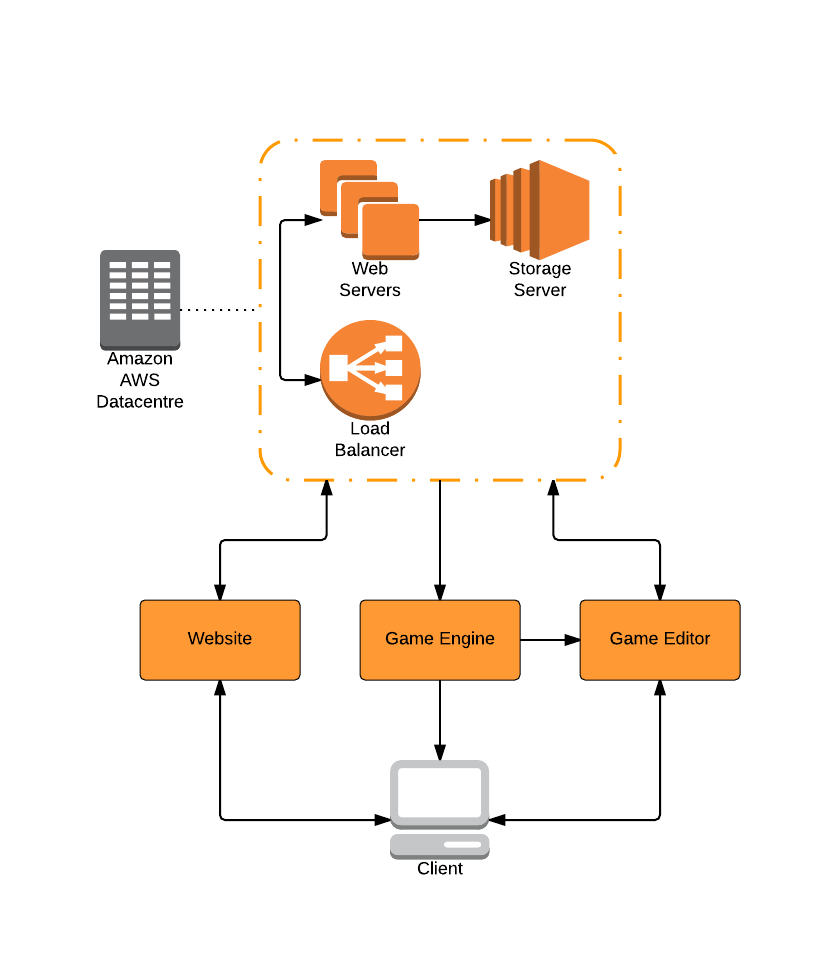
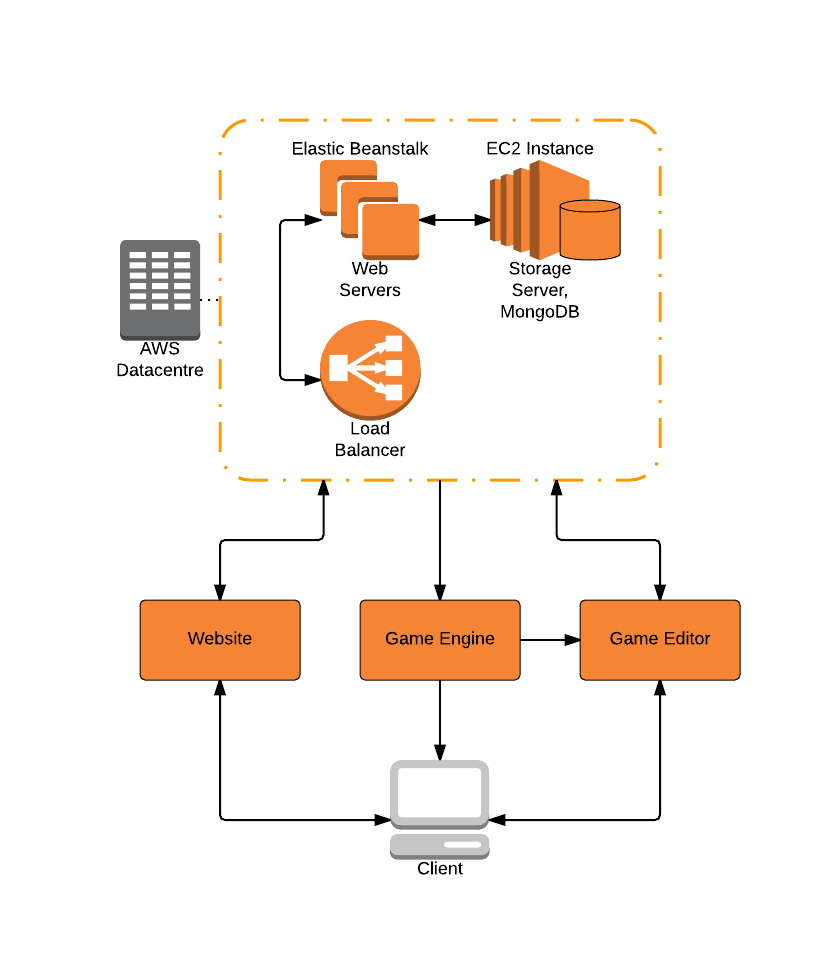
Added listings and color, along with some code display settings for listings from the LaTeX wiki Changed some of Design, lots of architecture

diff --git a/Dissertation/chapters/4_architecture.tex b/Dissertation/chapters/4_architecture.tex
@@ -2,23 +2,25 @@
 This chapter will go into detail of the development stages of this project, discussing the various decisions, challenges and problems faced during the development of each individual component in the system, and how they were resolved.
 
 \section{System Overview}
-The system is separated into two separate projects, \emph{the web server} which contains the game engine and editor, and \emph{the storage server}. These are both web based applications which host a HTTP server through the Python-based Flask microframework. The overview of the system is shown in Figure \ref, which labels the key components of the system in red.
-% Overview of sys arch, diagram to rep the key elements
-% Two main separate projects:
-% WebServer ---- StorageServer
-%	v
-% Website
-% Editor
-% Engine
+The system is separated into two individual development projects, \emph{the web server} which contains the website, game engine and editor, and \emph{the storage server}. These are both web based applications which host a HTTP server through the Python-based Flask microframework. An overview of the system is shown in Figure \ref{fig:overallarchitecture}, which labels the key components of the system in red.
 
+\begin{figure}[h]
+	\centering
+	\includegraphics[scale=0.8]{overallarchitecture}
+	\caption{Key components in the system}
+	\label{fig:overallarchitecture}
+\end{figure}
+
+\paragraph{Architectural Patterns.}
 The majority of the system follows the MVC (Model-View-Controller) software architectural pattern where possible. This pattern simplifies the development of complex systems by separating the data, display and logic sections into more managable subsystems - the model, view and controller respectively. The structure and architectural pattern of each individual component in this system will be described in-depth in Section \ref{section:systemcomponents}.
 
 % ref MVC, simplifies
 
 \section{Development Environment}
-The environment used throughout development of the system consisted of the Sublime Text 3 editor running on the Fedora 19 operating system. For each individual Flask project (The web server and storage server) a virtual environment was set up using \textbf{virtualenv}. Use of virtualenv allowed Python 3.4.2 (separate to the version on Fedora 19) and the required Python libraries to be installed individually for each project.
+The environment used throughout development of the project consisted of the Sublime Text 3 editor running on the Fedora 19 operating system. For each individual Flask project (The web server and storage server) a virtual environment was set up using \textbf{virtualenv}. Use of virtualenv allowed Python 3.4.2 (separate to the version on Fedora 19) and the required Python libraries to be installed individually for each project.
 
-For both projects, Flask and it's dependencies (itsdangerous, Jinja2, MarkupSafe and Werkzeug) were installed using \textbf{pip} in the virtualenv, along with the libraries specific to each project:
+For both projects, Flask and it's dependencies (itsdangerous, Jinja2, MarkupSafe and Werkzeug) were installed using \textbf{pip} in the virtualenv, along with the libraries specific to each project as seen below:
+
 \begin{itemize}
 	\item Web server:
 	\begin{itemize}
@@ -31,9 +33,9 @@ For both projects, Flask and it's dependencies (itsdangerous, Jinja2, MarkupSafe
 	\end{itemize}
 \end{itemize}
 
-The Git version control system was used to manage the project in this environment, with the project repository being hosted on GitHub as an external backup source. Originally, the two projects were in the same Git repository, however this proved to be unsuitable as rolling back changes on one project could be troublesome. The two projects were split into their own Git repositories using the \textbf{git subtree split} command, which maintained all commit history relevant to each project.
-
 The tools required to manage the Amazon Web Services were also installed in this environment, including the AWS CLI (Command Line Interface), and the Elastic Beanstalk CLI. These tools allow remote management of all AWS resources and quick deployment of applications to the Elastic Beanstalk platform.
+
+The Git version control system was used to manage the project in this environment, with the project repository being hosted on GitHub as an external backup source. Originally, the two projects were in the same Git repository, however this proved to be unsuitable as rolling back changes on one project would be troublesome. The two projects were split into their own Git repositories using the \textbf{git subtree split} command, which maintained all commit history relevant to each project.
 
 \section{System Components}
 \label{section:systemcomponents}
@@ -50,13 +52,57 @@ The tools required to manage the Amazon Web Services were also installed in this
 		\label{fig:flaskprocess}
 	\end{figure}
 
-	\paragraph{Internal Workings} % title
+	\paragraph{GitHub Authorisation.}
+
+
+	\paragraph{Templates.}
+	HTML templates are used to render the pages the server sends to the client. These are created using the Jinja2 templating language which is similar to embedding Python in HTML. Jinja2 has the feature of allowing templates to \emph{extend} or \emph{include} other templates, this means that they can be built upon eachother so very little HTML is repeated throughout the files. 
+
+	The template structure used for this website is built by extending a `base' template, which makes the creation of a consistently designed website easy. The base template creates the `html', `head' and `body' tags, links the stylesheets, adds a footer, then includes the `nav' template which has the top bar containing links to all of pages on the website. The rest of the body of the base template is defined as an empty `block'; which can be redefined by a template extending the base (Seen below).
+	\lstset{language=HTML,frame=single}
+	\begin{lstlisting}
+{% block content %}{% endblock %}
+	\end{lstlisting}
+
+	The nav template uses conditionals in Jinja2 to programmatically change how the navigation bar is displayed to the user; it does this by accessing the session variable on the server to check if the user has logged in. When a user is logged in, they are shown the link to the dashboard, along with their avatar, name and a `log out' button. If a user isn't logged in then the `log in' button is shown. This can be seen below:
+
+	\begin{lstlisting}
+{% if 'access_token' in session %}
+	<div class="userbox">
+	<img src="{{session['user_info']['avatar_url']}}&amp;s=30" alt="">
+	{{ session['user_info']['name'] }} 
+	<a href="/logout">logout</a>
+	</div>
+{% else %}
+	<form 
+		action="https://github.com/login/oauth/authorize" method="get">
+		<button type="submit" class="btn btn-default">
+			Log in with GitHub
+		</button>
+		<input type="hidden" name="scope" value="{{config.GITHUB_SCOPES}}"/>
+		<input type="hidden" name="client_id" value="{{config.GITHUB_CLIENT_ID}}"/>
+	</form>
+{% endif %}
+	\end{lstlisting}
+
+	\subsubsection{Routes}
+	The development of this component of the system consisted of developing each URL that users could access on the website. These took the form as routes in the Flask application, designated with a URL containing variables (Denoted with <>), along with HTML templates that get rendered with data from the server (However not every route has a template).
+	% todo
+	% A paragraph for each route.
+
+	\paragraph{/}
+	\paragraph{/games}
+	\paragraph{/game/<user>/<repo>}
+	\paragraph{/login}
+	\paragraph{/logout}
+	\paragraph{/dashboard}
+	\paragraph{/editor/<repo>}
+
+
 	% - Communication with storage server{storing remote access_token etc}
 	% - GitHub API, login access_token, emails, list of repos for cloning etc
 	% - Connecting to MongoDB on storage server
-
-	\paragraph{Routes}
-
+	% Config files
 	% Every route
 		% Login shit etc
 		% Talking to storage for dashboard
@@ -76,6 +122,7 @@ The tools required to manage the Amazon Web Services were also installed in this
 		% - GitPython usage
 		% - git operations, access_token, remotes
 	% - Talk about each API route individually
+	% Config files
 
 	% - mongodb
 	\subsection{Game Engine}

diff --git a/Dissertation/chapters/3_design.tex b/Dissertation/chapters/3_design.tex
@@ -107,7 +107,7 @@ Git will be used throughout the development process to provide version control a
 There are several key components in this system that have been carefully designed to work together, with each component having it's own design. This section will look at the structure of these components and how they have been designed to work together.
 
 	\subsection{Overview}
-	The main components of this system are the web server, storage server, website, game engine and game editor. Figure \ref{fig:overalldesign} visualises these components and shows how they interact with eachother. 
+	The components of this system are the web server, storage server, MongoDB database, website, game engine and game editor. Figure \ref{fig:overalldesign} visualises these components and shows how they interact with eachother, and what the user accesses.
 
 	\begin{figure}[h]
 		\centering
@@ -116,7 +116,7 @@ There are several key components in this system that have been carefully designe
 		\label{fig:overalldesign}
 	\end{figure}
 
-	Clients connect to the web application through the load balancer to view either the website, a game, or the game editor. When the connection to the load balancer is initiated, the load balancer can create a new instance of the web server if needed, to allow automatic scaling. The web servers will communicate with the storage server to retrieve or store game projects that have been created by users.
+	Clients connect to the web application through the load balancer to view either the website, a game, or the game editor. When the connection to the load balancer is initiated, the load balancer can create a new instance of the web server if needed, to allow automatic scaling. The web servers will communicate with the storage server to retrieve or store game projects that have been created by users. The MongoDB database, which runs on the same system as the storage server, is used to store a list of games published by the users.
 
 	\paragraph{Network}
 	%ec2, beanstalk

diff --git a/Dissertation/Dissertation.tex b/Dissertation/Dissertation.tex
@@ -13,6 +13,8 @@
 \usepackage{titlesec}
 \usepackage[T1]{fontenc}
 \usepackage{lmodern}
+\usepackage{color}
+\usepackage{listings}
 
 % Set the images directory
 \graphicspath{{images/}}
@@ -30,6 +32,39 @@
 % Fix table floats
 \restylefloat{table}
 
+% Set listings code formatting
+\definecolor{mygreen}{rgb}{0,0.6,0}
+\definecolor{mygray}{rgb}{0.5,0.5,0.5}
+\definecolor{mymauve}{rgb}{0.58,0,0.82}
+
+\lstset{ 
+  backgroundcolor=\color{white},   
+  basicstyle=\footnotesize,        
+  breakatwhitespace=false,         
+  breaklines=true,                 
+  captionpos=b,                    
+  commentstyle=\color{mygreen},    
+  deletekeywords={...},     
+  extendedchars=true,              
+  frame=single,                    
+  keepspaces=true,                 
+  keywordstyle=\color{blue},       
+  language=Octave,                 
+  morekeywords={*,...},            
+  numbers=left,                    
+  numbersep=5pt,                   
+  numberstyle=\tiny\color{mygray}, 
+  rulecolor=\color{black},         
+  showspaces=false,                
+  showstringspaces=false,          
+  showtabs=false,                  
+  stepnumber=2,                    
+  stringstyle=\color{mymauve},     
+  tabsize=2,                       
+  title=\lstname                
+}
+
+% Change chapter formatting
 \titleformat{\chapter}[hang] 
 {\normalfont\LARGE\bfseries}{\chaptertitlename\ \thechapter:}{1em}{} 
 
